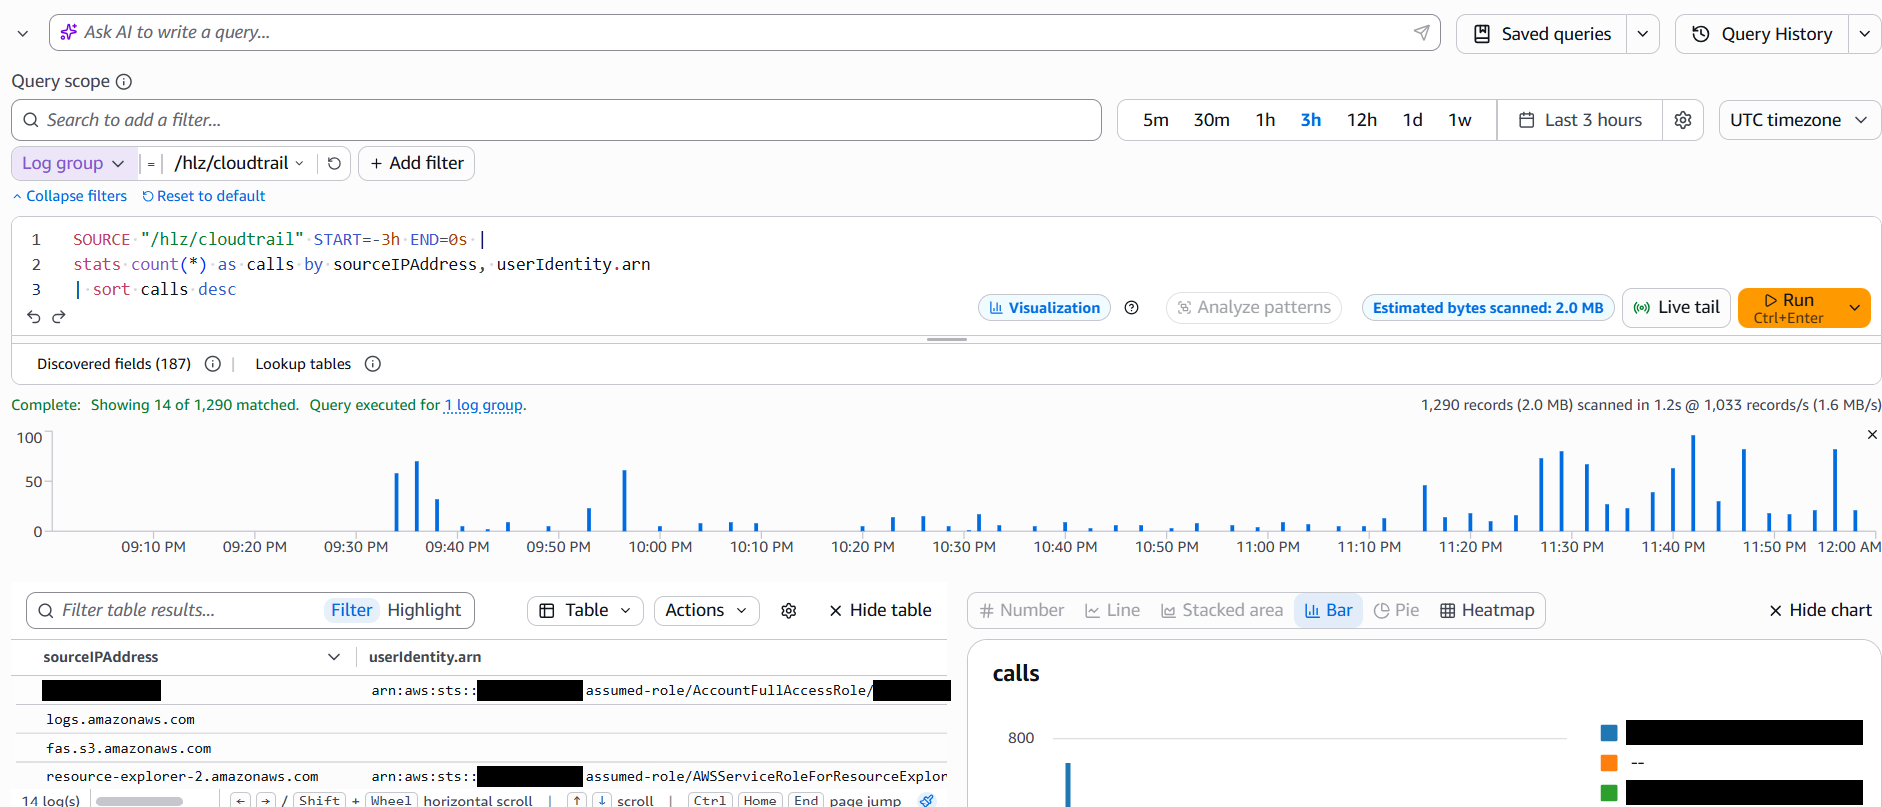
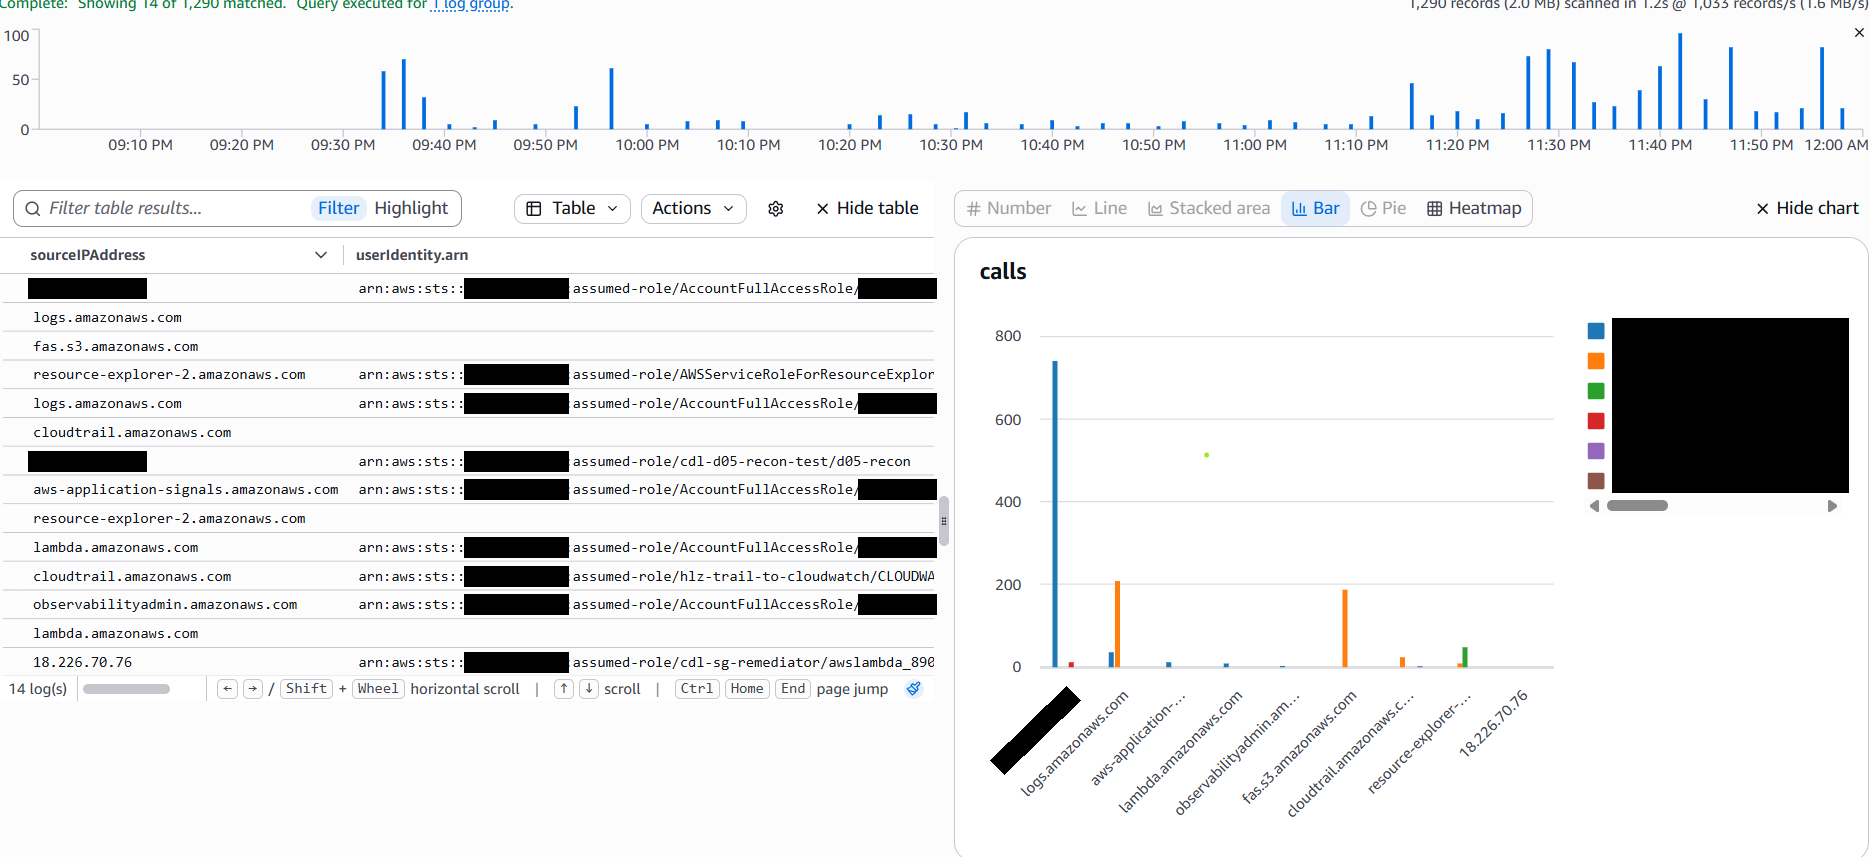
Results: full activity-by-source-ip view linking the test role to the analyst

diff --git a/docs/RESULTS.md b/docs/RESULTS.md
@@ -169,8 +169,9 @@ events matched, even though a role was created minutes earlier.
    triage query now drops `userIdentity.type = "AWSService"` so human actions
    come first, and the credentials hunt now also covers `CreateRole` and
    `CreatePolicy` for when the trail is multi-Region.
-4. **Attribution across identities.** `activity-by-source-ip` ties the test
-   role and the analyst role to the same source IP address, which is how an
+4. **Attribution across identities.** `activity-by-source-ip` shows the test
+   role (`cdl-d05-recon-test/d05-recon`) and the analyst role calling from the
+   same source IP address (blacked out in the screenshot), which is how an
    investigator links a throwaway identity back to the person behind it.
 5. **S3 bucket creation is allowed on this account.** A first D05 idea
    (creating buckets with global names) wasn't denied at all: seven empty
